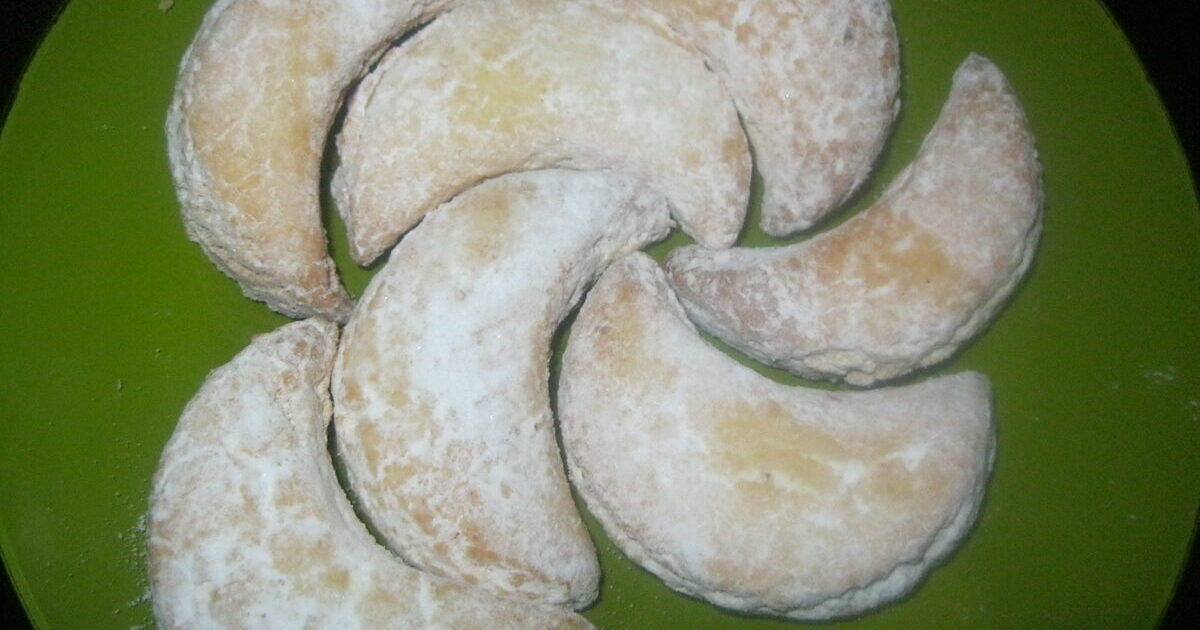
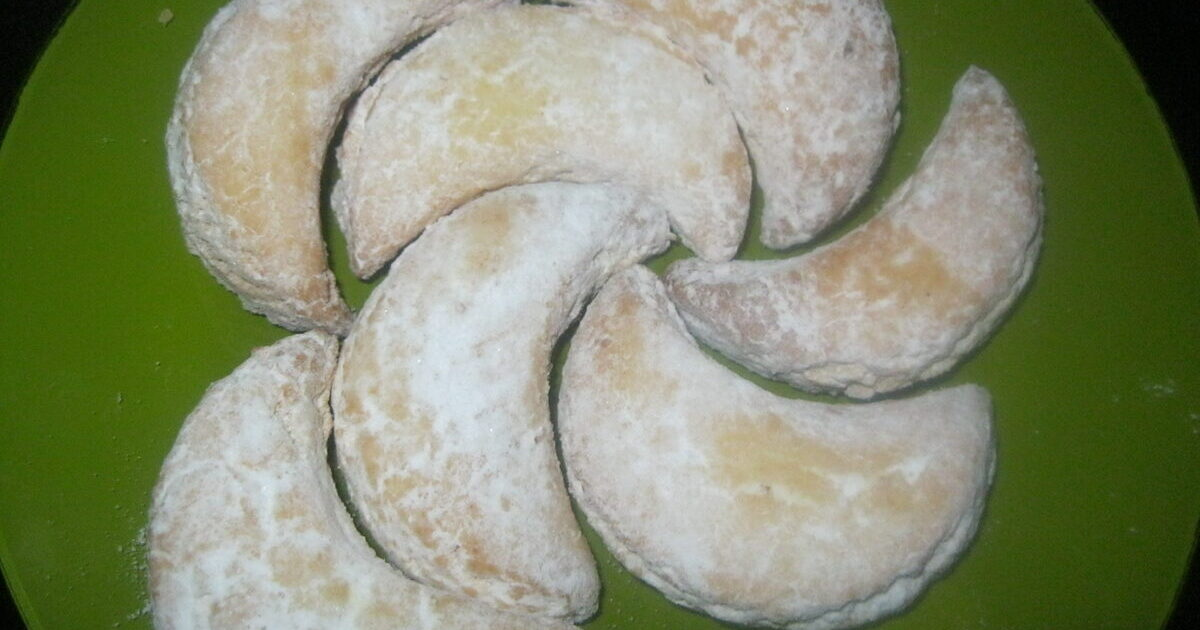
Recept: KOLAČIĆI S BELIM VINOM — potpuno renoviran

diff --git a/_posts/2011-07-19-kolacici-s-belim-vinom.md b/_posts/2011-07-19-kolacici-s-belim-vinom.md
@@ -6,17 +6,16 @@ author: mila
 layout: post
 guid: http://superkuvar.com/?p=1572
 permalink: /kolačići-s-belim-vinom/
-fb_social_plugin_settings_box_like:
-  - default
-fb_social_plugin_settings_box_send:
-  - default
-image: /wp-content/uploads/2011/07/kolacici.s.belim.vinom.hero.jpg
-description: Mekani kolačići sa belim vinom i margarinom — lagani, aromatični i jednostavni za pripremu. Poslužite ih uvaljane u šećer u prahu sa vanilom.
+published: true
+description: >-
+  Kolačići s belim vinom su meki domaći kolačići od margarina ili masti, belog
+  vina i brašna, uvaljani u šećer u prahu sa vanilom. Odlični su uz kafu ili
+  čaj, za praznike ili lagan domaći zalogaj.
 prep_time: PT25M
 cook_time: PT15M
 total_time: PT40M
 servings: oko 40 komada
-nutrition: oko 90 kalorija po komadu
+nutrition: oko 90 kalorija po porciji
 ingredients:
   - 250 g masti ili 300 g margarina
   - 2 dl belog vina
@@ -26,17 +25,18 @@ ingredients:
   - šećer u prahu za posipanje
   - 1 kesica vanilin šećera
 instructions:
-  - Penasto umutiti margarin, pa dodati vino, šećer, prašak za pecivo i brašno koliko je potrebno da se dobije testo kao za vanilice.
+  - Penasto umutiti margarin, pa dodati vino, šećer, prašak za pecivo i brašno, onoliko koliko je potrebno da se dobije testo kao za vanilice.
   - Dobro izrađeno testo razvući na debljinu prsta i modlom vaditi kolačiće.
-  - Kolačiće ređati u pleh prekriven papirom za pečenje i peći na 180 °C, pazeći da ostanu svetlije boje.
+  - Kolačiće ređati u pleh prekriven papirom za pečenje. Peći na 180 °C, ali paziti da ostanu svetlije boje.
   - Pečene kolačiće uvaljati u prah šećer zamirisan vanilom.
+image: /wp-content/uploads/2011/07/kolacici.s.belim.vinom.hero.jpg
+og_image: /wp-content/uploads/2011/07/kolacici.s.belim.vinom.og.jpg
+card_image: /wp-content/uploads/2011/07/kolacici.s.belim.vinom.kartica.jpg
 categories:
   - kolači
 tags:
   - margarin
   - vino
-og_image: /wp-content/uploads/2011/07/kolacici.s.belim.vinom.og.jpg
-card_image: /wp-content/uploads/2011/07/kolacici.s.belim.vinom.kartica.jpg
 ---
 **Način pripreme:**
 
@@ -48,4 +48,4 @@ card_image: /wp-content/uploads/2011/07/kolacici.s.belim.vinom.kartica.jpg
 
 <span id="step-4"></span>**Korak 4.** Pečene kolačiće uvaljati u prah šećer zamirisan vanilom.
 
-Ove kolačiće možete pripremiti i u posnoj varijanti — umesto masti upotrebite posni margarin.
+Ove kolačiće možete pripremiti i u posnoj varijanti — umesto masti upotrebite posni margarin. Najbolje idu uz kafu ili čaj, a u limenoj kutiji ostaju meki i aromatični nekoliko dana.
